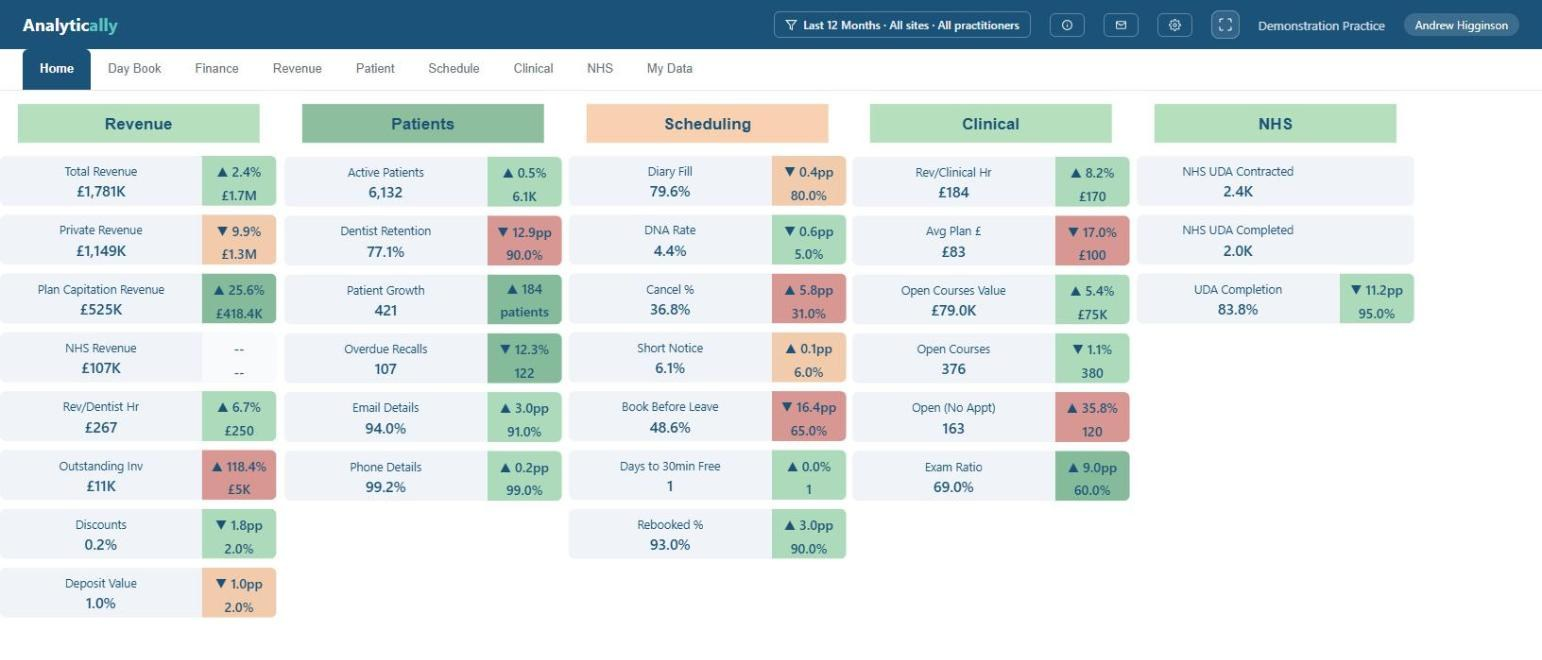
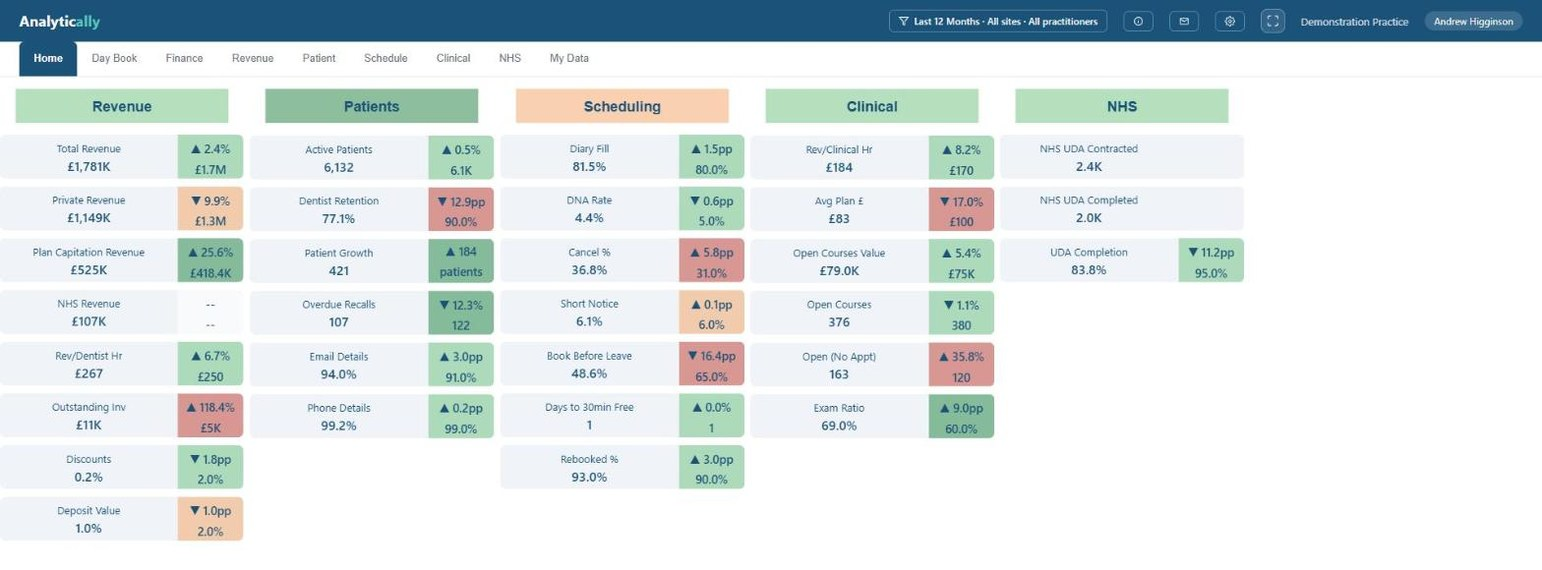
docs(site): the associate screen tells its story again
The My Data figure's whole point is an associate booked past the hours she works, and the
practitioner in the re-shot screen was running 88.5% with a free half-hour tomorrow --
which argued the opposite.

Poked the DEV demo tenant (11, Amara Singh) so the screen shows what the section is about:
diary fill 104.6% with every day of the forward strip at or over 100%, and twelve days to
her next half-hour slot against a target of two.

==> days-to-next-free HAD TO MOVE WITH IT. <== It is the tile that FLAGS overbooking, so
leaving it at 1 would have had the screen contradict itself: every day booked past 100%
yet a free slot tomorrow.

Two things learned doing it. diary_fill lives in BOTH Fact_Metric_Actuals (the tiles) and
Aggregate_Site_Patient_Practitioner_Daily (the strip) carrying identical numbers, so
matching values prove nothing about which one a visual reads -- poking only the fact
changed nothing on screen even after a real 45s refresh. And the model is Import, so
nothing shows until a refresh runs AFTER the write.

Home is re-shot too: the poke lifted practice diary fill from 79.6% to 81.5%, which now
reads GREEN against its 80% target. That is arguably a better thesis than the old one --
the practice average looks fine while one associate is at 104.6% -- but it is the owner's
line to write, and "the diary is under-filled" in the four-line summary no longer matches.

The poke is temporary by design: both tables are rebuilt by the nightly, which silently
[…]

Changed region(s): [[0.0, 0.1491, 0.9339, 0.9544], [0.0, 0.0, 1.0, 0.1491], [0.0311, 0.507, 0.0934, 0.5667]]

diff --git a/Website/blind-spot.html b/Website/blind-spot.html
@@ -371,11 +371,11 @@
     <figure>
       <div class="shot">
         <img src="/img/blind-spot/03-home-board-12-months.jpg" alt="Home board: five columns of metric tiles for Revenue, Patients, Scheduling, Clinical and NHS, each with value, variance and target.">
-        <span class="pin" style="--x:18.5%; --y:39.2%">1</span>
-        <span class="pin" style="--x:37.0%; --y:65.9%">2</span>
-        <span class="pin" style="--x:37.0%; --y:48.0%">3</span>
-        <span class="pin" style="--x:55.3%; --y:75.0%">4</span>
-        <span class="pin" style="--x:55.3%; --y:66.1%">5</span>
+        <span class="pin" style="--x:15.4%; --y:39.4%">1</span>
+        <span class="pin" style="--x:31.7%; --y:66.6%">2</span>
+        <span class="pin" style="--x:31.7%; --y:48.4%">3</span>
+        <span class="pin" style="--x:47.9%; --y:75.7%">4</span>
+        <span class="pin" style="--x:47.9%; --y:66.8%">5</span>
       </div>
       <figcaption>
         <ul class="notes">
@@ -423,22 +423,22 @@
     <div class="col">
       <p>Principals have a hard job coaching associates. They can set targets and explain how the practice likes things done, but the conversation still needs both people reading the same figures.</p>
       <p class="lead"><strong>A subscription set up for an associate shows them their own figures and nothing else.</strong> There is no practice page behind this one, no finance page, no route through to a colleague’s numbers. The navigation is not hidden, it is not there.</p>
-      <p>By the measure most owners reach for first she is the strongest clinician in the practice: <strong>£267 an hour against a £180 target</strong>. The rest of the row is why that is not the whole story. Her diary is running at <strong>106% of the hours she actually works</strong>, booked past the end of the day, most days. The next half-hour a patient can be offered with her is <strong>five days out</strong>. And <strong>63 courses of treatment she has started have no next appointment booked</strong>, £12K of work begun and not finished.</p>
+      <p>By the measure most owners reach for first she is the strongest clinician in the practice: <strong>£277 an hour against a £180 target</strong>. The rest of the row is why that is not the whole story. Her diary is running at <strong>104.6% of the hours she actually works</strong>, booked past the end of the day, every day. The next half-hour a patient can be offered with her is <strong>twelve days out</strong>, against a target of two. And <strong>38 courses of treatment she has started have no next appointment booked</strong>, £8K of work begun and not finished.</p>
     </div>
     <figure>
       <div class="shot">
         <img src="/img/blind-spot/09-mydata-associate.jpg" alt="A single associate's page and nothing else: revenue, revenue per clinical hour, chair utilisation, diary fill, days to the next half-hour slot, and open courses with and without a booked appointment, each against that practitioner's target.">
-        <span class="pin" style="--x:14.3%; --y:21.2%">1</span>
-        <span class="pin" style="--x:75.9%; --y:21.2%">2</span>
-        <span class="pin" style="--x:1.5%; --y:28.7%">3</span>
-        <span class="pin" style="--x:60.5%; --y:28.7%">4</span>
+        <span class="pin" style="--x:11.8%; --y:20.1%">1</span>
+        <span class="pin" style="--x:66.0%; --y:20.1%">2</span>
+        <span class="pin" style="--x:1.0%; --y:27.3%">3</span>
+        <span class="pin" style="--x:52.4%; --y:27.3%">4</span>
       </div>
       <figcaption>
         <ul class="notes">
-          <li><span class="n">1</span><span class="t"><b><span class='fig'>£277</span></b><b> an hour against </b><b><span class='fig'>£180</span></b><b>.</b> On production she is the best in the practice, and she knows it.</span></li>
-          <li><span class="n">2</span><span class="t"><b>Diary fill </b><b><span class='fig'>106%</span></b><b>.</b> Booked beyond the hours she works, the overrun everyone feels and nobody had measured.</span></li>
-          <li><span class="n">3</span><span class="t"><b><span class='fig'>Five days</span></b><b> to her next half-hour slot.</b> A patient who rings on Monday with something wrong is seen the following week.</span></li>
-          <li><span class="n">4</span><span class="t"><b><span class='fig'>63</span></b><b> started courses with no next appointment.</b> The work is half done and has no date on it, which is also £12K not yet invoiced.</span></li>
+          <li><span class="n">1</span><span class="t"><span class='fig'>£277</span> an hour against <span class='fig'>£180</span>. On production she is the best in the practice, and she knows it.</span></li>
+          <li><span class="n">2</span><span class="t">Diary fill <span class='fig'>104.6%</span>, and every working day on the strip below is at or over 100%. Booked past the hours she works, the overrun everyone feels and nobody had measured.</span></li>
+          <li><span class="n">3</span><span class="t"><span class='fig'>Twelve days</span> to her next half-hour slot, against a target of two. A patient who rings on Monday with something wrong waits a fortnight.</span></li>
+          <li><span class="n">4</span><span class="t"><span class='fig'>38</span> started courses with no next appointment. The work is half done and has no date on it, which is also <span class='fig'>£8K</span> not yet invoiced.</span></li>
         </ul>
       </figcaption>
     </figure>
